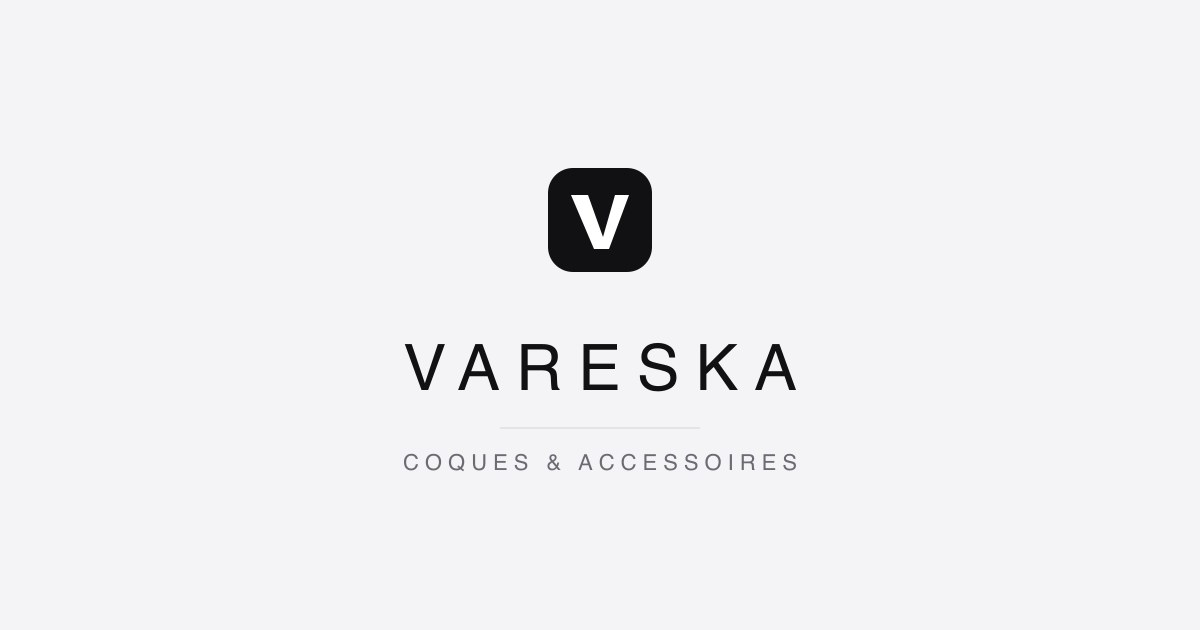
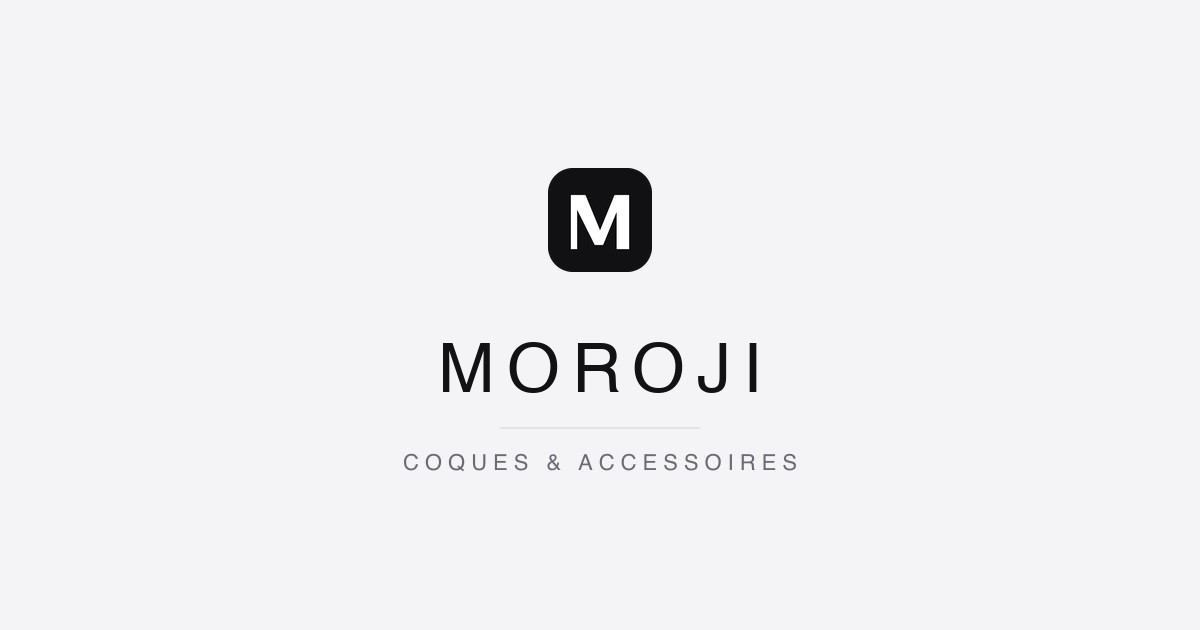
Marque : Vareska devient Moroji
vareska.com a été acheté par un tiers. Même identité, seul le nom change :
- logo en Pinyon Script, police réduite aux lettres de « Moroji » ;
- logo du paiement régénéré à la taille et à la graisse de l'ancien ;
- favicon et icône Apple : monogramme M au même tracé à la plume que le V ;
- image de partage, wordmark SVG, textes d'exemple.
Les clés internes « vareska:… » du navigateur sont gardées : les changer
effacerait les designs en cours des visiteurs.

Changed region(s): [[0.3392, 0.5429, 0.6783, 0.6333], [0.4625, 0.3016, 0.5242, 0.4222]]

diff --git a/src/content/blog/article-exemple.md b/src/content/blog/article-exemple.md
@@ -2,7 +2,7 @@
 title: "Article exemple : découvrez le blog du starter"
 description: "Un article de démonstration qui montre les conventions markdown, FAQ et i18n du starter. À remplacer par votre premier vrai contenu."
 pubDate: 2026-01-01
-author: "L'équipe Vareska"
+author: "L'équipe Moroji"
 category: "Guides"
 tags:
   - "exemple"
@@ -13,7 +13,7 @@ faq:
     a: "Dupliquez ce fichier dans src/content/blog/, changez le nom du fichier (il devient le slug de l'URL), puis remplissez le frontmatter et le contenu."
 ---
 
-Bienvenue sur le blog du starter Vareska. Cet article est un exemple : il montre comment un contenu est structuré, du frontmatter YAML jusqu'au corps en markdown. Remplacez-le par votre premier vrai article dès que votre boutique prend forme.
+Bienvenue sur le blog du starter Moroji. Cet article est un exemple : il montre comment un contenu est structuré, du frontmatter YAML jusqu'au corps en markdown. Remplacez-le par votre premier vrai article dès que votre boutique prend forme.
 
 ## Section exemple
 

diff --git a/src/content/blog/de/article-exemple.md b/src/content/blog/de/article-exemple.md
@@ -2,7 +2,7 @@
 title: "Beispielartikel: entdecke den Blog des Starters"
 description: "Ein Demo-Artikel, der die Markdown-, FAQ- und i18n-Konventionen des Starters zeigt. Ersetze ihn durch deinen ersten echten Inhalt."
 pubDate: 2026-01-01
-author: "Das Vareska-Team"
+author: "Das Moroji-Team"
 category: "Guides"
 tags:
   - "beispiel"
@@ -13,7 +13,7 @@ faq:
     a: "Dupliziere diese Datei in src/content/blog/de/, ändere den Dateinamen (er wird zum URL-Slug) und fülle dann das Frontmatter und den Inhalt aus."
 ---
 
-Willkommen im Blog des Vareska-Starters. Dieser Artikel ist ein Beispiel: Er zeigt, wie ein Inhalt aufgebaut ist, vom YAML-Frontmatter bis zum Markdown-Text. Ersetze ihn durch deinen ersten echten Artikel, sobald dein Shop Gestalt annimmt.
+Willkommen im Blog des Moroji-Starters. Dieser Artikel ist ein Beispiel: Er zeigt, wie ein Inhalt aufgebaut ist, vom YAML-Frontmatter bis zum Markdown-Text. Ersetze ihn durch deinen ersten echten Artikel, sobald dein Shop Gestalt annimmt.
 
 ## Beispielabschnitt
 

diff --git a/src/content/blog/en/article-exemple.md b/src/content/blog/en/article-exemple.md
@@ -2,7 +2,7 @@
 title: "Example article: discover the starter blog"
 description: "A demo article showing the markdown, FAQ and i18n conventions of the starter. Replace it with your first real content."
 pubDate: 2026-01-01
-author: "The Vareska team"
+author: "The Moroji team"
 category: "Guides"
 tags:
   - "example"
@@ -13,7 +13,7 @@ faq:
     a: "Duplicate this file in src/content/blog/en/, change the file name (it becomes the URL slug), then fill in the frontmatter and the content."
 ---
 
-Welcome to the Vareska starter blog. This article is an example: it shows how content is structured, from the YAML frontmatter to the markdown body. Replace it with your first real article as soon as your store takes shape.
+Welcome to the Moroji starter blog. This article is an example: it shows how content is structured, from the YAML frontmatter to the markdown body. Replace it with your first real article as soon as your store takes shape.
 
 ## Example section
 

diff --git a/src/content/productCategories/categorie-exemple.md b/src/content/productCategories/categorie-exemple.md
@@ -1,6 +1,6 @@
 ---
-title: "Catégorie exemple - Boutique Vareska"
-metaDescription: "Page de catégorie exemple du starter Vareska. Remplacez cette meta description par un texte de 150 à 160 caractères décrivant votre catégorie."
+title: "Catégorie exemple - Boutique Moroji"
+metaDescription: "Page de catégorie exemple du starter Moroji. Remplacez cette meta description par un texte de 150 à 160 caractères décrivant votre catégorie."
 intro: "Ceci est l'introduction de la catégorie exemple. Remplacez ce paragraphe par une présentation courte de votre gamme de produits."
 guideHeading: "Tout savoir sur la catégorie exemple"
 keywords:

diff --git a/src/content/productCategories/de/categorie-exemple.md b/src/content/productCategories/de/categorie-exemple.md
@@ -1,6 +1,6 @@
 ---
-title: "Beispielkategorie - Vareska Shop"
-metaDescription: "Beispiel-Kategorieseite aus dem Vareska-Starter. Ersetze diese Meta-Description durch einen Text mit 150 bis 160 Zeichen, der deine Kategorie beschreibt."
+title: "Beispielkategorie - Moroji Shop"
+metaDescription: "Beispiel-Kategorieseite aus dem Moroji-Starter. Ersetze diese Meta-Description durch einen Text mit 150 bis 160 Zeichen, der deine Kategorie beschreibt."
 intro: "Das ist die Einleitung der Beispielkategorie. Ersetze diesen Absatz durch eine kurze Vorstellung deines Sortiments."
 guideHeading: "Alles über die Beispielkategorie"
 keywords:

diff --git a/src/content/productCategories/en/categorie-exemple.md b/src/content/productCategories/en/categorie-exemple.md
@@ -1,6 +1,6 @@
 ---
-title: "Example category - Vareska store"
-metaDescription: "Example category page from the Vareska starter. Replace this meta description with a 150 to 160 character text describing your category."
+title: "Example category - Moroji store"
+metaDescription: "Example category page from the Moroji starter. Replace this meta description with a 150 to 160 character text describing your category."
 intro: "This is the introduction of the example category. Replace this paragraph with a short presentation of your product range."
 guideHeading: "Everything about the example category"
 keywords:
